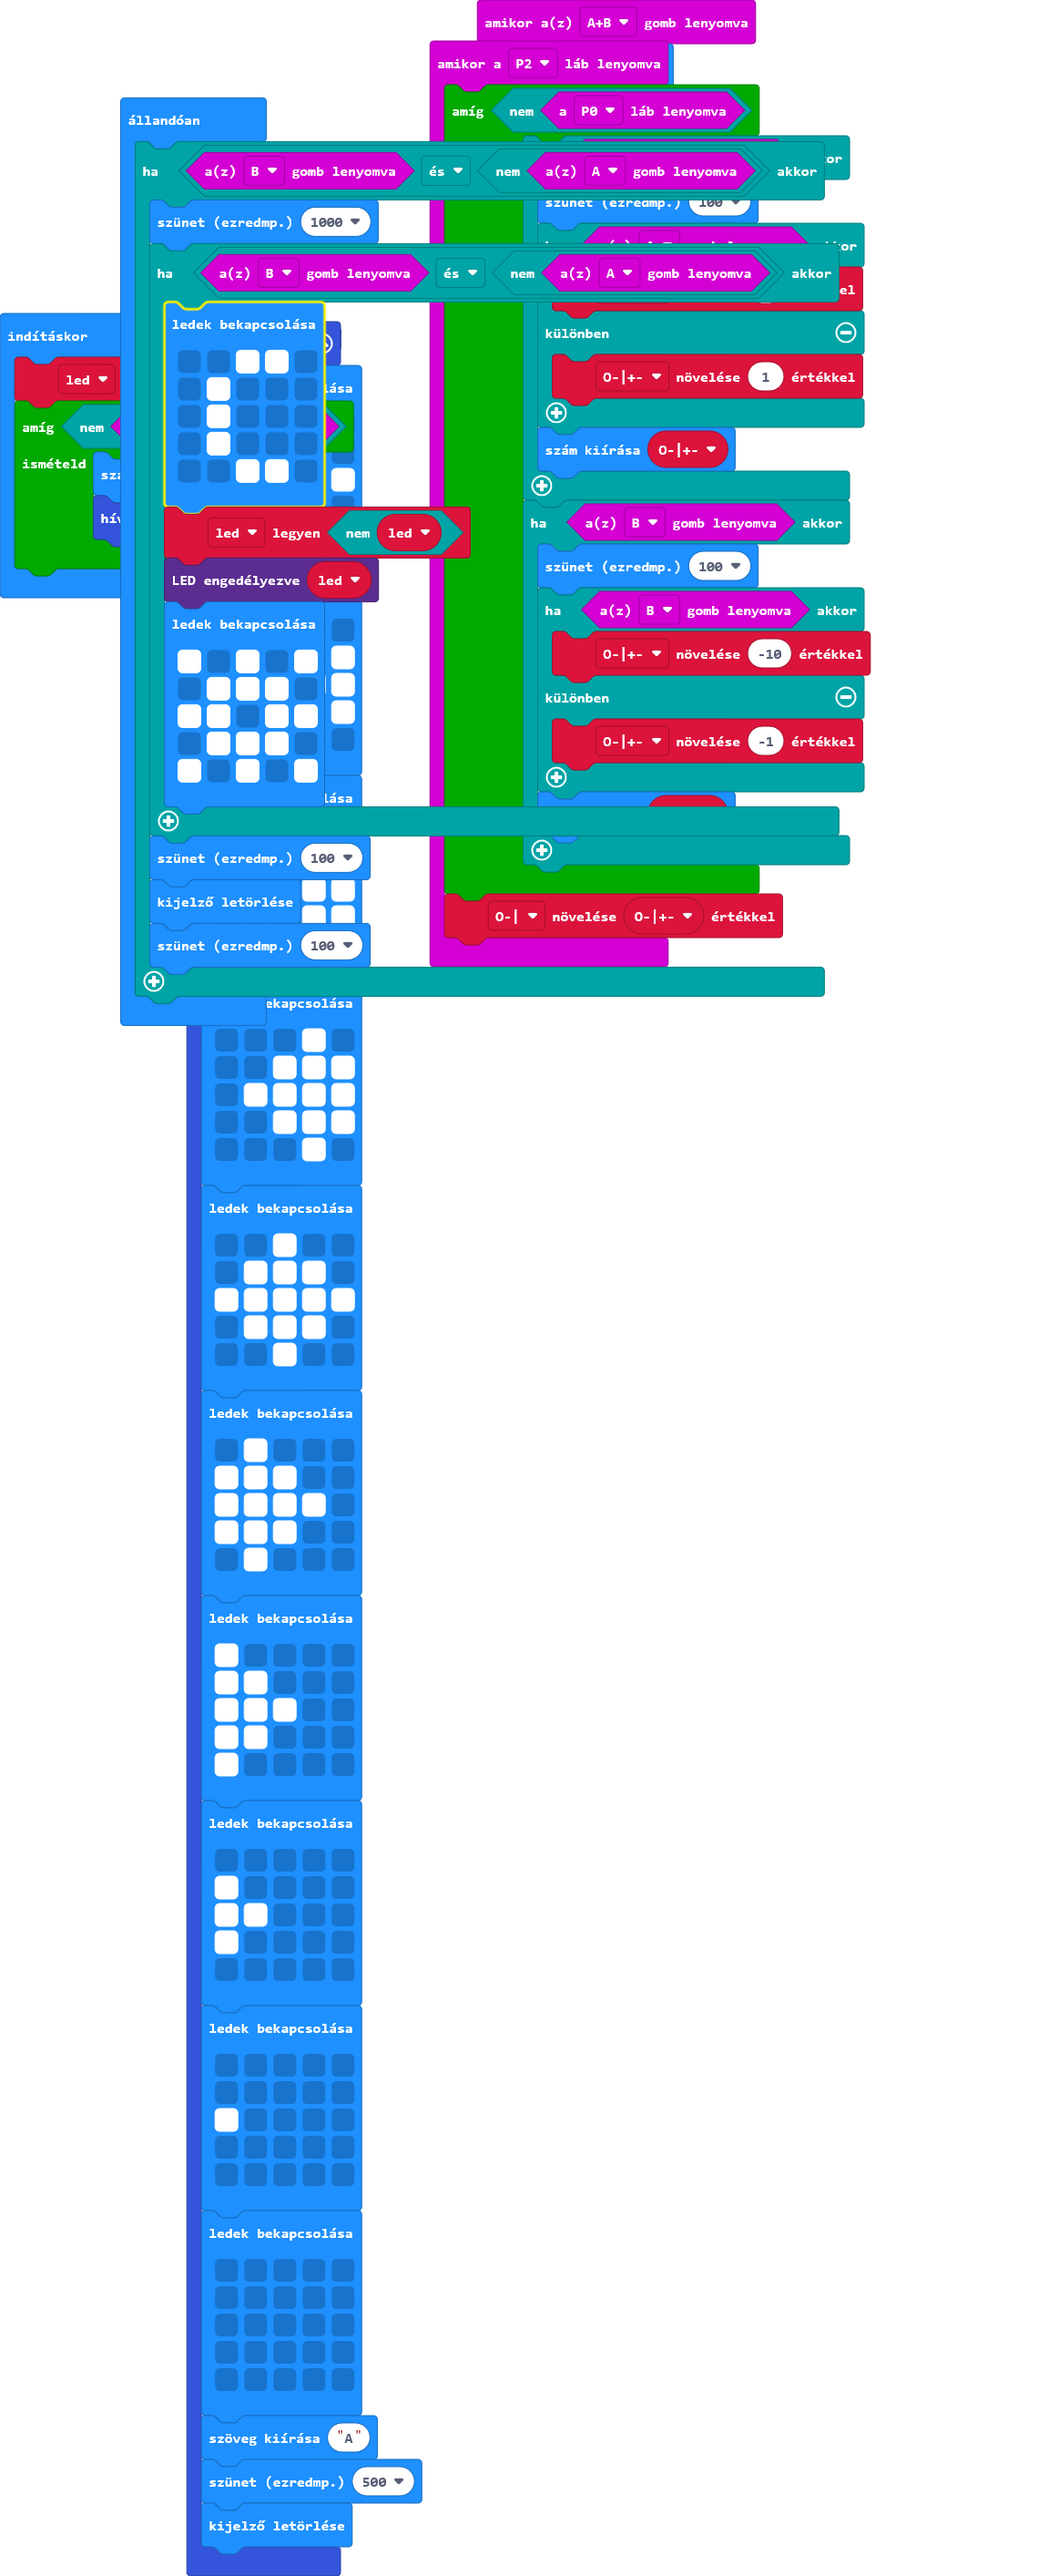
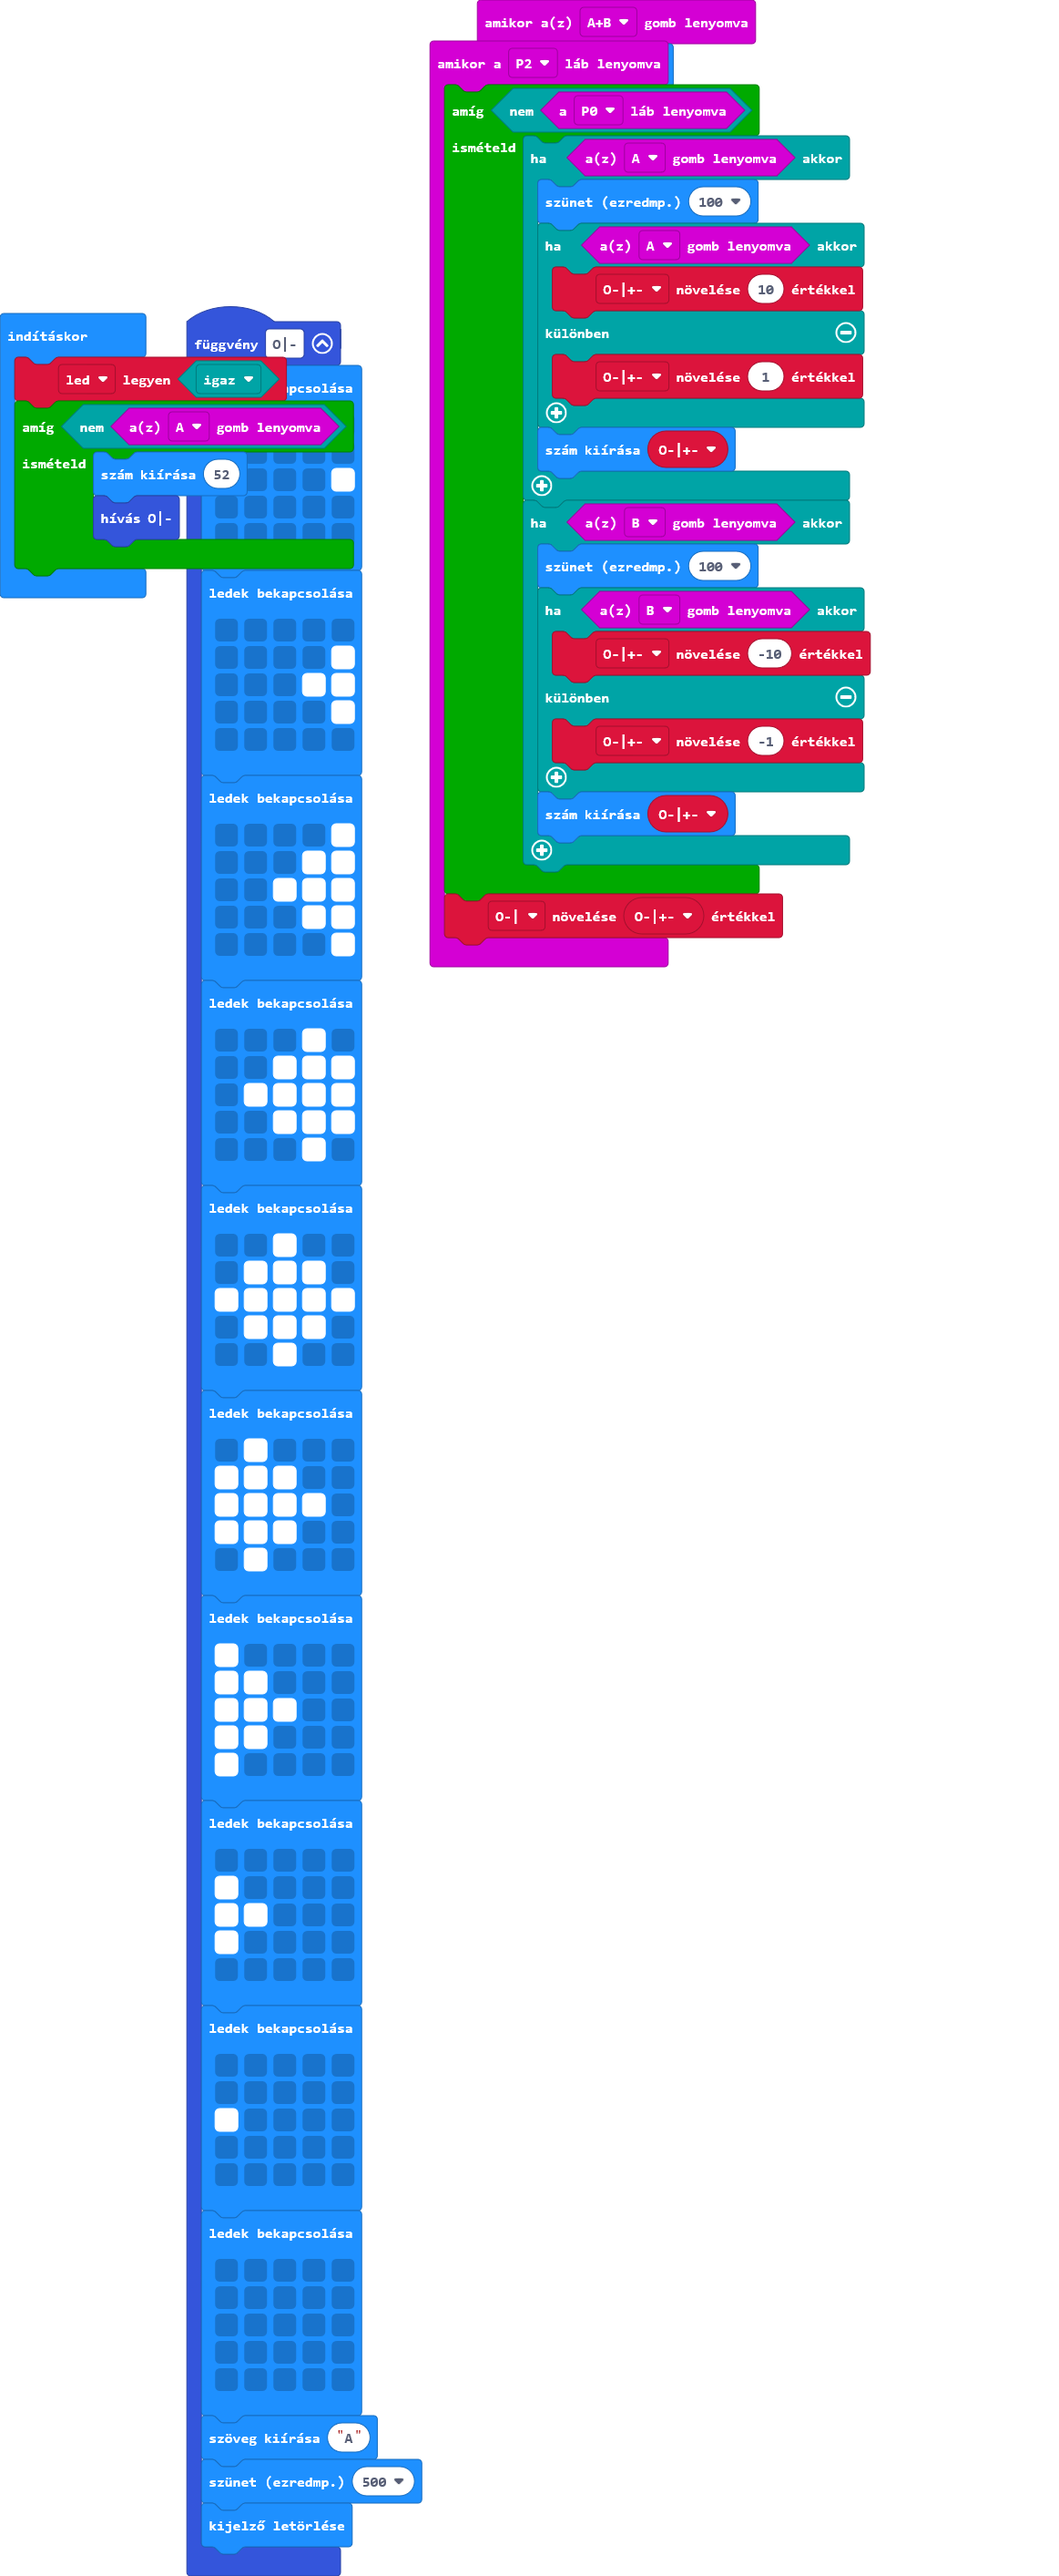
Update main.blocks, main.ts

Changed region(s): [[0.0929, 0.0311, 0.8048, 0.4047]]

diff --git a/main.ts b/main.ts
@@ -108,29 +108,3 @@ while (!(input.buttonIsPressed(Button.A))) {
     basic.showNumber(52)
     O()
 }
-basic.forever(function () {
-    if (input.buttonIsPressed(Button.B) && !(input.buttonIsPressed(Button.A))) {
-        basic.pause(1000)
-        if (input.buttonIsPressed(Button.B) && !(input.buttonIsPressed(Button.A))) {
-            basic.showLeds(`
-                . . # # .
-                . # . . .
-                . # . . .
-                . # . . .
-                . . # # .
-                `)
-            led2 = !(led2)
-            led.enable(led2)
-            basic.showLeds(`
-                # . # . #
-                . # # # .
-                # # . # #
-                . # # # .
-                # . # . #
-                `)
-        }
-        basic.pause(100)
-        basic.clearScreen()
-        basic.pause(100)
-    }
-})
